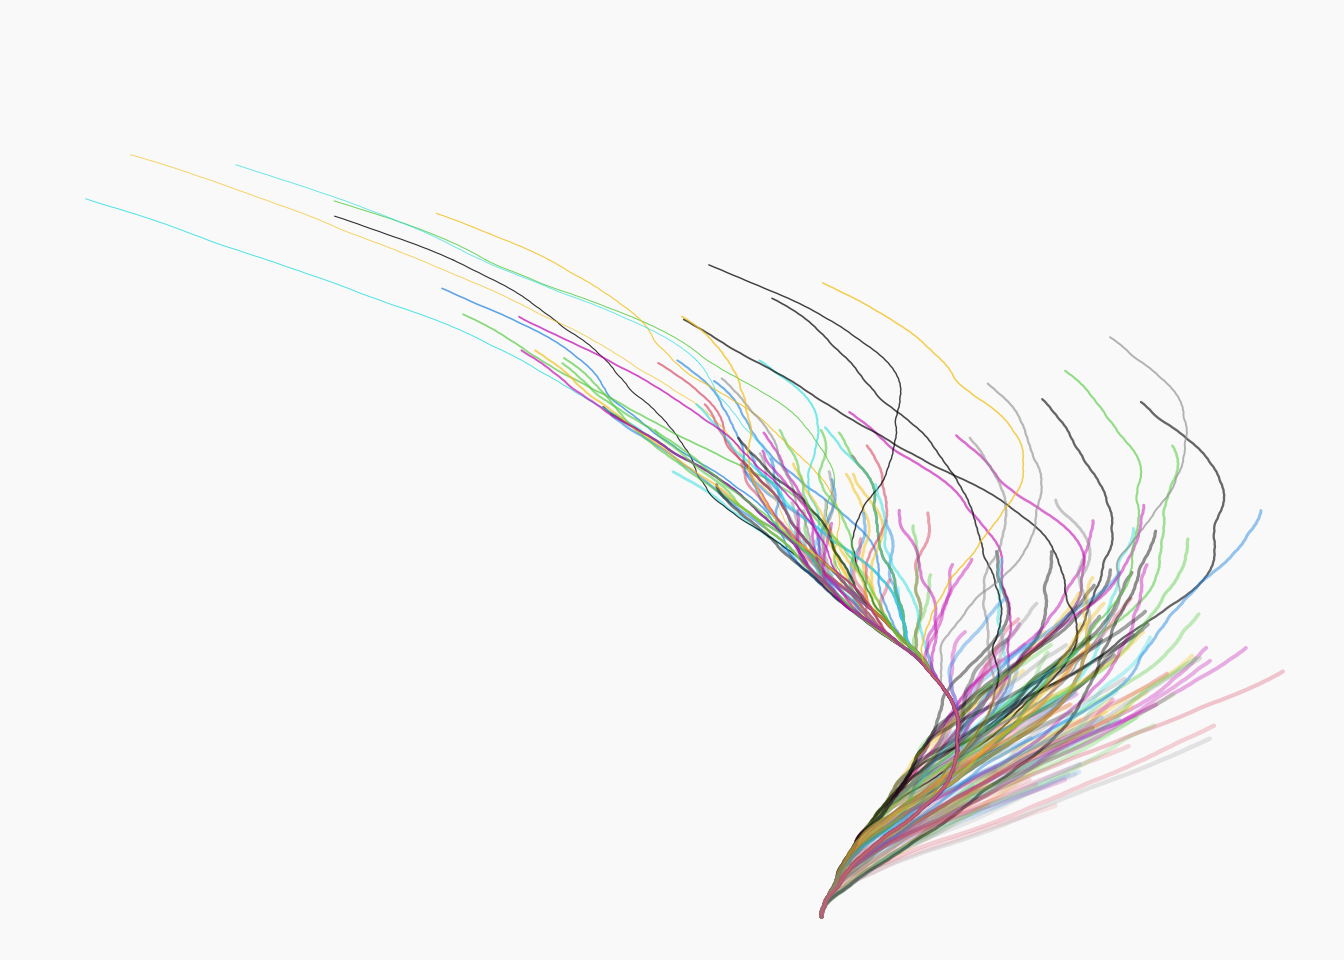
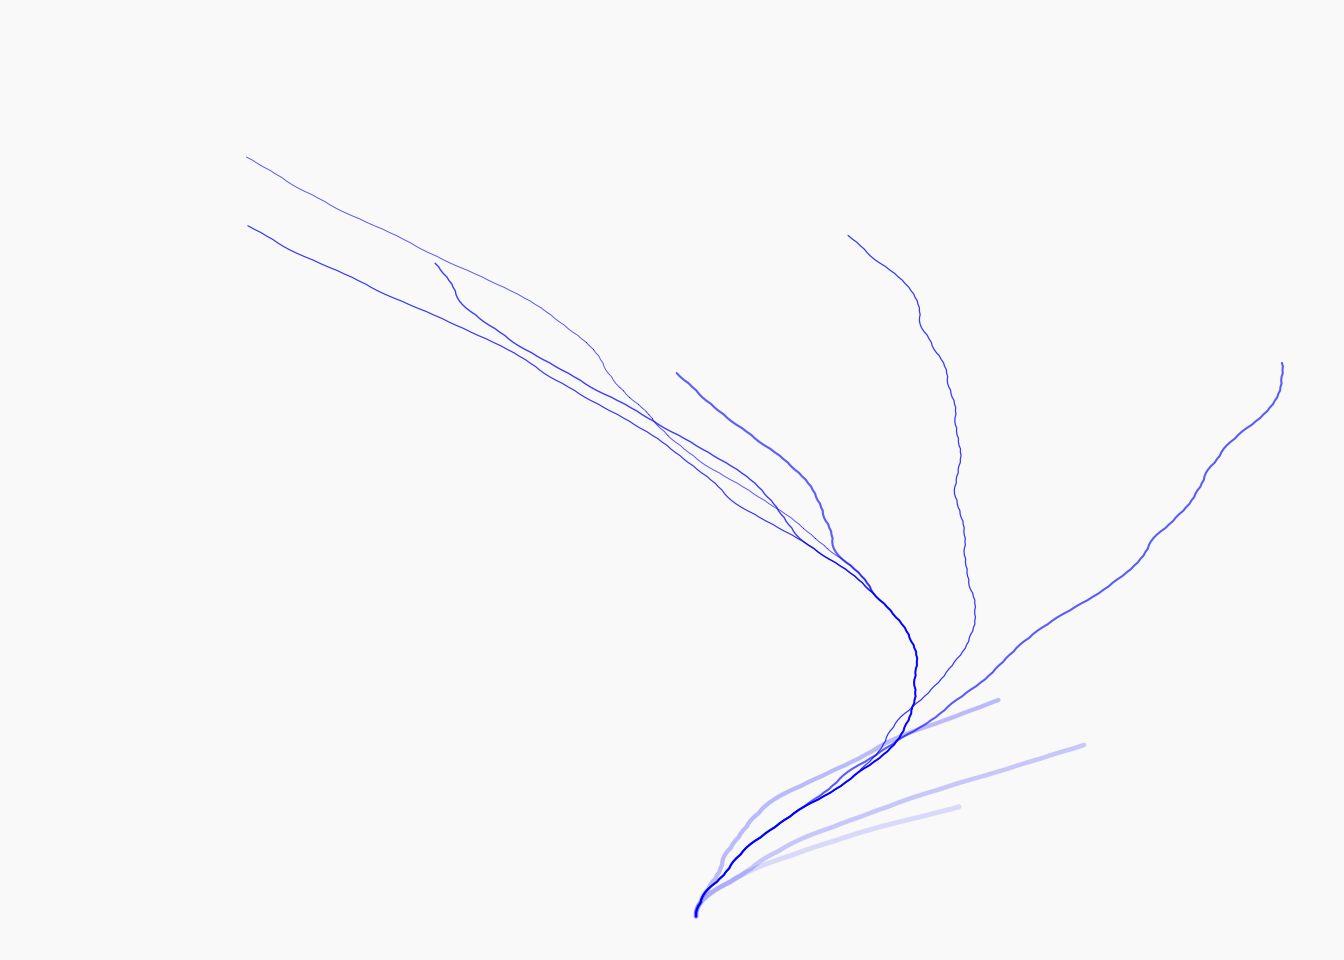
some finishing touches

diff --git a/homework2.html b/homework2.html
@@ -164,7 +164,7 @@ n\div2 &amp; \text{if n is even}\\
 <h4 class="anchored" data-anchor-id="b.">b.</h4>
 <p>– I get a different output each time I enter a different number because the sequence of equations required to reach 1 is different for every positive number.</p>
 <p>– It would be difficult to replicate the collatz conjecture code in a .qmd file because every output that is not 1 would need to be passed through its corresponding equation repeatedly until the sequence eventually reaches 1.</p>
-<p>–</p>
+<p>– By setting the seed to a certain integer, you are able to get the same output of numbers using the sample function depending on how many numbers you want to output and through which numbers you want to index. Your output of numbers will also vary depending on which functions you use. i.e.(sample, rnorm)</p>
 <div class="cell">
 <div class="code-copy-outer-scaffold"><div class="sourceCode cell-code" id="cb3"><pre class="sourceCode r code-with-copy"><code class="sourceCode r"><span id="cb3-1"><a href="#cb3-1" aria-hidden="true" tabindex="-1"></a><span class="fu">set.seed</span>(<span class="dv">32</span>)</span>
 <span id="cb3-2"><a href="#cb3-2" aria-hidden="true" tabindex="-1"></a><span class="fu">sample</span>(<span class="dv">1</span><span class="sc">:</span><span class="dv">100</span>, <span class="dv">3</span>)</span></code></pre></div><button title="Copy to Clipboard" class="code-copy-button"><i class="bi"></i></button></div>
@@ -177,6 +177,33 @@ n\div2 &amp; \text{if n is even}\\
 </section>
 <section id="question-4" class="level2">
 <h2 class="anchored" data-anchor-id="question-4">Question 4</h2>
+<div class="cell">
+<div class="code-copy-outer-scaffold"><div class="sourceCode cell-code" id="cb5"><pre class="sourceCode r code-with-copy"><code class="sourceCode r"><span id="cb5-1"><a href="#cb5-1" aria-hidden="true" tabindex="-1"></a><span class="fu">canvas_collatz</span>(</span>
+<span id="cb5-2"><a href="#cb5-2" aria-hidden="true" tabindex="-1"></a>  <span class="at">colors =</span> <span class="fu">c</span>(<span class="st">"blue"</span>),</span>
+<span id="cb5-3"><a href="#cb5-3" aria-hidden="true" tabindex="-1"></a>  <span class="at">n =</span> <span class="dv">10</span></span>
+<span id="cb5-4"><a href="#cb5-4" aria-hidden="true" tabindex="-1"></a>)</span></code></pre></div><button title="Copy to Clipboard" class="code-copy-button"><i class="bi"></i></button></div>
+<div class="cell-output-display">
+<div>
+<figure class="figure">
+<p><img src="homework2_files/figure-html/unnamed-chunk-4-1.png" class="img-fluid figure-img" width="672"></p>
+</figure>
+</div>
+</div>
+</div>
+<div class="cell">
+<div class="code-copy-outer-scaffold"><div class="sourceCode cell-code" id="cb6"><pre class="sourceCode r code-with-copy"><code class="sourceCode r"><span id="cb6-1"><a href="#cb6-1" aria-hidden="true" tabindex="-1"></a><span class="fu">canvas_collatz</span>(</span>
+<span id="cb6-2"><a href="#cb6-2" aria-hidden="true" tabindex="-1"></a>  <span class="at">colors =</span> <span class="fu">c</span>(<span class="st">"blue"</span>),</span>
+<span id="cb6-3"><a href="#cb6-3" aria-hidden="true" tabindex="-1"></a>  <span class="at">n =</span> <span class="dv">1</span><span class="sc">:</span><span class="dv">20</span></span>
+<span id="cb6-4"><a href="#cb6-4" aria-hidden="true" tabindex="-1"></a>)</span></code></pre></div><button title="Copy to Clipboard" class="code-copy-button"><i class="bi"></i></button></div>
+<div class="cell-output-display">
+<div>
+<figure class="figure">
+<p><img src="homework2_files/figure-html/unnamed-chunk-5-1.png" class="img-fluid figure-img" width="672"></p>
+</figure>
+</div>
+</div>
+</div>
+<p>The code in the previous chunk is substituting the value n only for 10, while the code in question four is substituting n by indexing all number 1 through 20. The outcome, the code in question four is printing the n-values 1:20 onto the canvas while the code from the previous chunk is only printing the outcome of the n-value 10. While using the set.seed function to set the seed to 1 does change the starting value to one, the index already starts from the number 1, so it does not make any sense to set the seed to start at 1.</p>
 </section>
 </section>
 
